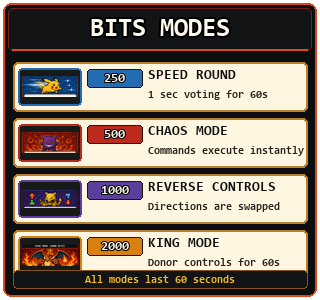
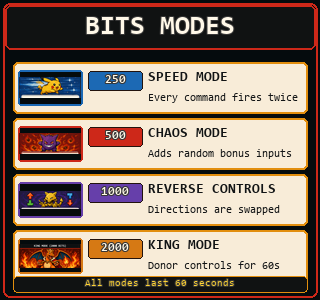
bam

diff --git a/tools/build_twitch_panels.py b/tools/build_twitch_panels.py
@@ -1,0 +1,167 @@
+#!/usr/bin/env python3
+from pathlib import Path
+from PIL import Image, ImageDraw, ImageFont
+
+BASE = Path(__file__).resolve().parents[1]
+OUT = BASE / "assets" / "twitch_panels"
+ALERTS = BASE / "assets" / "ui" / "alerts"
+OUT.mkdir(exist_ok=True)
+
+FONT_DIR = Path("C:/Windows/Fonts")
+FONT_BOLD = FONT_DIR / "consolab.ttf"
+FONT_REG = FONT_DIR / "consola.ttf"
+
+DARK = (5, 11, 13, 255)
+PANEL = (16, 18, 18, 255)
+CREAM = (248, 236, 216, 255)
+INK = (18, 20, 21, 255)
+RED = (205, 40, 25, 255)
+RED_DARK = (104, 20, 12, 255)
+GOLD = (226, 142, 14, 255)
+BLUE = (28, 105, 180, 255)
+PURPLE = (102, 63, 170, 255)
+GRAY = (80, 88, 96, 255)
+GREEN = (62, 137, 64, 255)
+ORANGE = (214, 121, 20, 255)
+WHITE = (255, 248, 232, 255)
+
+
+def font(size, bold=False):
+    path = FONT_BOLD if bold else FONT_REG
+    if path.exists():
+        return ImageFont.truetype(str(path), size)
+    return ImageFont.load_default()
+
+
+def rounded(draw, box, fill, outline=RED, width=2, radius=6):
+    draw.rounded_rectangle(box, radius=radius, fill=fill, outline=outline, width=width)
+
+
+def text(draw, xy, value, size, fill=INK, bold=False, stroke=False):
+    draw.text(
+        xy,
+        value,
+        font=font(size, bold),
+        fill=fill,
+        stroke_width=1 if stroke else 0,
+        stroke_fill=(0, 0, 0, 200),
+    )
+
+
+def centered(draw, box, value, size, fill=WHITE, bold=True):
+    f = font(size, bold)
+    bbox = draw.textbbox((0, 0), value, font=f, stroke_width=1)
+    w = bbox[2] - bbox[0]
+    h = bbox[3] - bbox[1]
+    x1, y1, x2, y2 = box
+    text(
+        draw,
+        (x1 + (x2 - x1 - w) / 2 - bbox[0], y1 + (y2 - y1 - h) / 2 - bbox[1] - 1),
+        value,
+        size,
+        fill,
+        bold,
+        True,
+    )
+
+
+def header(draw, title, width):
+    rounded(draw, (5, 5, width - 5, 49), PANEL, RED, 2, 6)
+    centered(draw, (5, 5, width - 5, 49), title, 27)
+
+
+def thumb(name, size=(62, 36)):
+    src = Image.open(ALERTS / name).convert("RGBA")
+    # Crop away the text panel and keep the illustrated top region.
+    w, h = src.size
+    crop = src.crop((5, 36, w - 5, int(h * 0.58)))
+    crop.thumbnail(size, Image.Resampling.LANCZOS)
+    out = Image.new("RGBA", size, (0, 0, 0, 0))
+    out.alpha_composite(crop, ((size[0] - crop.width) // 2, (size[1] - crop.height) // 2))
+    return out
+
+
+def card_row(img, y, accent, alert_name, bits, title, body):
+    draw = ImageDraw.Draw(img)
+    rounded(draw, (13, y, 307, y + 51), CREAM, GOLD, 2, 5)
+    rounded(draw, (18, y + 8, 82, y + 43), DARK, accent, 2, 3)
+    img.alpha_composite(thumb(alert_name), (19, y + 8))
+
+    rounded(draw, (88, y + 9, 142, y + 28), accent, (34, 19, 14, 255), 1, 3)
+    centered(draw, (88, y + 9, 142, y + 28), str(bits), 12)
+    text(draw, (148, y + 8), title, 14, INK, True)
+    text(draw, (148, y + 30), body, 11, INK)
+
+
+def build_bits_panel():
+    img = Image.new("RGBA", (320, 300), DARK)
+    draw = ImageDraw.Draw(img)
+    rounded(draw, (3, 3, 317, 297), DARK, RED, 2, 7)
+    header(draw, "BITS MODES", 320)
+
+    rows = [
+        (62, BLUE, "speed_round_card.png", 250, "SPEED MODE", "Every command fires twice"),
+        (118, RED, "chaos_card.png", 500, "CHAOS MODE", "Adds random bonus inputs"),
+        (174, PURPLE, "reverse_controls_card.png", 1000, "REVERSE CONTROLS", "Directions are swapped"),
+        (230, ORANGE, "king_mode_card.png", 2000, "KING MODE", "Donor controls for 60s"),
+    ]
+    for row in rows:
+        card_row(img, *row)
+
+    rounded(draw, (13, 276, 307, 292), PANEL, GOLD, 1, 4)
+    centered(draw, (13, 276, 307, 292), "All modes last 60 seconds", 10, (255, 212, 51, 255), False)
+    img.save(OUT / "bits_modes_panel.png")
+    return img
+
+
+def sub_thumb(name, x, y, img):
+    draw = ImageDraw.Draw(img)
+    rounded(draw, (x, y, x + 84, y + 52), DARK, GOLD, 1, 3)
+    src = thumb(name, (76, 42))
+    img.alpha_composite(src, (x + 4, y + 5))
+
+
+def sub_row(draw, y, accent, title, body):
+    rounded(draw, (14, y, 306, y + 35), CREAM, GOLD, 1, 4)
+    text(draw, (22, y + 5), title, 12, accent, True)
+    text(draw, (22, y + 20), body, 11, INK)
+
+
+def build_sub_panel():
+    img = Image.new("RGBA", (320, 280), DARK)
+    draw = ImageDraw.Draw(img)
+    rounded(draw, (3, 3, 317, 277), DARK, RED, 2, 7)
+    header(draw, "SUB PERKS", 320)
+
+    sub_thumb("subscriber_card.png", 17, 75, img)
+    sub_thumb("gift_sub_card.png", 118, 75, img)
+    sub_thumb("resub_card.png", 219, 75, img)
+
+    sub_row(draw, 148, RED, "SUBSCRIBER", "Commands count x2.")
+    sub_row(draw, 188, ORANGE, "GIFTED SUB", "Recipient gets x2 credit.")
+    sub_row(draw, 228, GREEN, "RESUB", "Welcome-back alert.")
+
+    rounded(draw, (14, 264, 306, 276), PANEL, GOLD, 1, 3)
+    centered(draw, (14, 264, 306, 276), "Automatic from Twitch sub status.", 7, (255, 212, 51, 255), False)
+    img.save(OUT / "sub_perks_panel.png")
+    return img
+
+
+def build_preview(bits, subs):
+    preview = Image.new("RGBA", (660, 330), (3, 6, 7, 255))
+    preview.alpha_composite(bits, (10, 10))
+    preview.alpha_composite(subs, (340, 10))
+    draw = ImageDraw.Draw(preview)
+    text(draw, (10, 316), "Twitch-ready PNG panels: 320px wide, under 1 MB", 11, WHITE)
+    preview.save(OUT / "twitch_panels_preview.png")
+
+
+def main():
+    bits = build_bits_panel()
+    subs = build_sub_panel()
+    build_preview(bits, subs)
+    print("rebuilt Twitch panel PNGs")
+
+
+if __name__ == "__main__":
+    main()

diff --git a/overlay_app.py b/overlay_app.py
@@ -313,7 +313,7 @@ class Overlay(QWidget):
     def clear_live_values(self, p):
         p.setPen(Qt.NoPen)
 
-        # Current Round body (below header)
+        # Command Activity body (below header)
         p.setBrush(CREAM2)
         p.drawRect(QRectF(1549, 219, 358, 356))
 
@@ -338,12 +338,11 @@ class Overlay(QWidget):
 
     def draw_votes(self, p):
         rows = self.state.get("votes", [])[:5]
-        progress = max(0.0, min(1.0, float(self.state.get("round_progress", 0.0))))
 
         if not rows:
-            self.screen_text(p, "Waiting for votes...", 1564, 355, 310, 24, 14, QColor("#68645D"), False, Qt.AlignCenter)
+            self.screen_text(p, "Waiting for commands...", 1564, 355, 310, 24, 14, QColor("#68645D"), False, Qt.AlignCenter)
 
-        yy = 250
+        yy = 232
         for i, row in enumerate(rows):
             pct = float(row.get("percent", 0))
             wt = int(row.get("weighted_votes", 0))
@@ -364,12 +363,8 @@ class Overlay(QWidget):
             self.screen_text(p, f"({wt})", 1817, yy + 17, 70, 16, 13, INK, True, Qt.AlignRight | Qt.AlignVCenter)
             yy += 58
 
-        self.screen_text(p, f"Total Votes: {int(self.state.get('round_weighted_vote_count', 0))}",
+        self.screen_text(p, f"Commands: {int(self.state.get('round_weighted_vote_count', 0))}",
                          1575, 542, 310, 24, 14, INK, True, Qt.AlignCenter)
-
-        self.screen_rounded(p, 1588, 224, 274, 14, QColor("#321913"), QColor("#8E261B"), 4, 1)
-        if progress > 0:
-            self.screen_rounded(p, 1589, 225, max(4, 272 * progress), 12, GOLD, GOLD, 3, 0)
 
     def draw_chat_legacy(self, p):
         yy = 555

diff --git a/tools/build_overlay_assets.py b/tools/build_overlay_assets.py
@@ -165,6 +165,21 @@ def draw_how_to_play_commands(frame):
             draw.text((88, y + 27), line2, font=rule_f, fill=INK)
 
 
+def draw_command_activity_header(frame):
+    draw = ImageDraw.Draw(frame)
+    title = "COMMAND ACTIVITY"
+    # Preserve the original right-panel header frame and Pokeballs; replace only the title text.
+    draw.rectangle((1615, 176, 1848, 208), fill=(14, 18, 20, 255))
+    title_f = font(24)
+    bbox = draw.textbbox((0, 0), title, font=title_f)
+    tw = bbox[2] - bbox[0]
+    th = bbox[3] - bbox[1]
+    tx = 1548 + (366 - tw) / 2 - bbox[0]
+    ty = 171 + (44 - th) / 2 - bbox[1]
+    draw.text((tx + 2, ty + 2), title, font=title_f, fill=(0, 0, 0, 190))
+    draw.text((tx, ty), title, font=title_f, fill=(255, 248, 232, 255))
+
+
 def make_clean_frame():
     source = UI / "overlay_frame_source.png"
     frame = Image.open(source).convert("RGBA")
@@ -187,6 +202,7 @@ def make_clean_frame():
     draw.rectangle(GAME_APERTURE, fill=(0, 0, 0, 0))
 
     draw_how_to_play_commands(frame)
+    draw_command_activity_header(frame)
 
     for title, box in BOTTOM_BOXES.items():
         panel(draw, box, title)

diff --git a/TWITCH_PANELS.md b/TWITCH_PANELS.md
@@ -1,78 +1,57 @@
-# Twitch Panels — Version 6
+# Twitch Panels
 
-## HOW TO PLAY
+Use these images in Twitch's About panel editor:
 
-Control the Pokémon adventure directly from Twitch chat.
+- `assets/twitch_panels/bits_modes_panel.png`
+- `assets/twitch_panels/sub_perks_panel.png`
 
-**Commands**
+## How To Play
+
+Control the Pokemon adventure directly from Twitch chat.
+
+Commands:
 `!up` `!down` `!left` `!right`
 `!a` `!b`
-`!l` `!r`
 `!start` `!select`
 
-Each round lasts about 3 seconds. The command with the highest **weighted vote percentage** executes.
+Commands execute instantly. There is no voting delay.
 
-- Regular viewer = 1 vote
-- Subscriber / Founder = 2 votes
-- One active vote per viewer per round
-- You can change your vote before the round ends
-- Ties go to whichever tied command received support first
+Subscribers and founders get x2 command credit automatically. Gifted subs give that perk to the recipient.
 
----
+## Bits Modes
 
-## WORLD EVENTS
+Temporary gameplay modifiers triggered by Twitch Bits. Active modes appear on the stream overlay with a countdown.
 
-Twitch Bits can temporarily change the rules of the game.
+**250 Bits - Speed Mode**
+Every valid chat command fires twice for 60 seconds.
 
-**250 Bits — Speed Round**
-Voting windows become 1 second for 60 seconds.
+**500 Bits - Chaos Mode**
+Every valid chat command also triggers one random bonus input for 60 seconds.
 
-**500 Bits — Chaos Mode**
-Valid commands execute instantly for 60 seconds.
-
-**1000 Bits — Reverse Controls**
+**1000 Bits - Reverse Controls**
 Up/Down and Left/Right are swapped for 60 seconds.
 
-**2000 Bits — King Mode**
-One viewer controls the game for 60 seconds.
+**2000 Bits - King Mode**
+The donor is the only viewer whose commands control the game for 60 seconds.
 
-Active effects are always shown on the stream overlay with a countdown.
+## Sub Perks
 
----
+**Subscriber**
+Commands count x2.
 
-## ADVENTURE LOG
+**Gifted Sub**
+The recipient gets x2 command credit.
 
-This panel can later be connected to Pokémon Emerald game-memory tracking.
-
-Planned automatic stats:
-- Current location
-- Badges
-- Current party
-- Deaths / wipes
-- Play time
-- Current objective
-- Hall of Fame completions
-
-For v6, these stats are intentionally removed from the permanent overlay to keep gameplay large.
-
----
+**Resub**
+Triggers a welcome-back alert on stream.
 
 ## FAQ
 
 **Why didn't my command execute?**
-The stream uses democracy voting. Only the command with the highest weighted percentage executes when the timer ends.
+Make sure the command is one of the supported commands shown above. During King Mode, only the king's commands control the game.
 
 **Do subscribers control the game more?**
-Subscribers receive a small perk: their vote counts as 2 instead of 1. Gifted subs give that perk to the recipient. They still only have one active vote per round.
+Subscribers receive x2 command credit for stream stats/challenges. Commands still execute instantly.
 
-**Can I change my vote?**
-Yes. Enter another valid command before the voting timer ends.
-
-**What does the star beside a username mean?**
-That viewer is a subscriber and their vote carries the subscriber multiplier.
-
-**What are World Events?**
+**What are Bits Modes?**
 Temporary gameplay modifiers triggered by Twitch Bits. The current effect and remaining time appear on the overlay.
-
-**Does donating let one viewer directly control the game?**
-No. Events affect the community/game rules rather than giving one donor permanent control.

diff --git a/assets/twitch_panels/README.md b/assets/twitch_panels/README.md
@@ -1,6 +1,6 @@
 # Twitch Panels
 
-Upload these images in Twitch's **About** panel editor.
+Upload these images in Twitch's About panel editor.
 
 ## Bits Modes
 
@@ -11,11 +11,11 @@ Description:
 ```md
 Trigger stream effects with Bits:
 
-250 Bits - Speed Round
-Voting windows become 1 second for 60 seconds.
+250 Bits - Speed Mode
+Every command fires twice for 60 seconds.
 
 500 Bits - Chaos Mode
-Valid commands execute instantly for 60 seconds.
+Commands also trigger random bonus inputs for 60 seconds.
 
 1000 Bits - Reverse Controls
 Up/Down and Left/Right are swapped for 60 seconds.
@@ -31,9 +31,9 @@ Image: `sub_perks_panel.png`
 Description:
 
 ```md
-Subscribers get x2 vote weight automatically.
+Subscribers get x2 command credit automatically.
 
-Gifted subs give the x2 vote perk to the recipient.
+Gifted subs give x2 command credit to the recipient.
 
 Resubs trigger a welcome-back alert on stream.
 ```

diff --git a/README.md b/README.md
@@ -8,7 +8,7 @@ This version implements the latest approved overlay art into the project.
 - The **game window is genuinely transparent** so OBS can place mGBA under it.
 - No permanent Professor Oak / NPC dialogue box.
 - No permanent Trainer Status box.
-- Current Round, Live Chat, bottom HUD, and footer are aligned to the approved image.
+- Command Activity, Live Chat, bottom HUD, and footer are aligned to the approved image.
 
 ## OBS setup
 Use a 1920x1080 base canvas.
